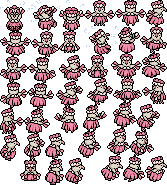
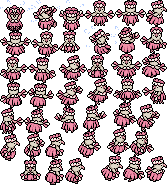
fix: redo four shinies part by part
Naclstack's salt flakes, Oricorio Pa'u's wing tips, Sensu's beak and
Milcery's eye rims shared a colour with another part, so a colour swap
could not give them their own. Made again with shiny-sprites, keeping
every other colour. Tranquill's note is reworded: its shared lavender
is the art's.

diff --git a/compact/EDITS.md b/compact/EDITS.md
@@ -162,14 +162,14 @@ rather than what the artist submitted.
 | `kalos/0721/0001` Shadow, shiny | `kalos/0721/0000` shiny | The same, from shiny Volcanion: `edits/0721-0001-shadow-shiny.json`. |
 | `kalos/0719/0002` Shadow | `kalos/0719/0000` regular | Not in the collection; a form of ours. Made with the `shadow-sprites` skill: `edits/0719-0002-shadow-regular.json`. The regular draws the dress front and the sparkle in one white, so parts come from the shiny coat. The crystals sit on their mid pink, which keeps them visible. |
 | `kalos/0719/0002` Shadow, shiny | `kalos/0719/0000` shiny | The same, from shiny Diancie: `edits/0719-0002-shadow-shiny.json`. |
-| `alola/0741/0002` shiny | `alola/0741/0002` regular | No shiny was drawn. Recoloured from the regular with colours taken from official shiny Pa'u art: `edits/0741-0002-regular-shiny.json`. The face and the wing-feather tips share one colour, so the tips come out cream-white rather than pale pink. |
+| `alola/0741/0002` shiny | `alola/0741/0002` regular | No shiny was drawn. Recoloured from the regular with colours taken from official shiny Pa'u art, with the shiny-sprites tool: the face and the wing-feather tips share one pink, so patches of it no bigger than 12 px are taken as tips and turn pale pink, the face cream. Plan: `edits/0741-0002-regular-shiny.json`. |
 | `unova/0520/0000` Tranquill | `sprite-0520.zip`, regular | Not in the collection yet; built from the artist's SpriteCollab-format folder (`sprite-0520.zip`), with a `credits.txt` added: Pokejavi., CC BY-NC 4.0. A rebuild from `sprite/` will not make it until upstream has it. |
 | `unova/0558/0000` Crustle | `sprite-0558.zip`, regular | Not in the collection yet; built from the artist's SpriteCollab-format folder (`sprite-0558.zip`), with a `credits.txt` added: JFain, CC BY-NC 4.0. A rebuild from `sprite/` will not make it until upstream has it. |
 | `unova/0616/0000` Shelmet | `sprite-0616.zip`, regular | Not in the collection yet; built from the artist's SpriteCollab-format folder (`sprite-0616.zip`), with a `credits.txt` added: Pokejavi., CC BY-NC 4.0. A rebuild from `sprite/` will not make it until upstream has it. |
 | `unova/0626/0000` Bouffalant | `3DS - Pokedex 3D Pro - … #0626 Bouffalant.zip`, a rigged COLLADA model (replaces the earlier hand-drawn sheet from `sprite-0626.zip`) | Not in the collection yet. Rendered, not drawn, as Amoonguss. Model edits: head 1.2×, legs thickened; the afro's grey-brown and the coat's orange-brown kept as separate colour families. Rendered at 12 px a unit, 25° camera, overhead light; same pixel stage. The afro is not left-right symmetric, so all eight directions are rendered. Idle (keys 250–321), Attack (the head-butt, 116–137) and Charge (112–128) are the model's own motion; Walk is a posed trot; Hop follows the hand-drawn template; Double is the idle pose flickering sideways; Sleep is drawn from DownLeft. The eyes stay hidden under the afro, as on the model. No author; no credits. |
 | `alola/0741/0003` Oricorio Sensu | `sprite-0741-0003.zip`, regular | Not in the collection yet; built from the artist's SpriteCollab-format folder (`sprite-0741-0003.zip`), with a `credits.txt` added: baronessfaron, CC BY-NC 4.0. A rebuild from `sprite/` will not make it until upstream has it. |
-| `unova/0520/0000` shiny | `unova/0520/0000` regular | No shiny was drawn. Recoloured from the regular with colours taken from official shiny Tranquill art: `edits/0520-0000-regular-shiny.json`. The eye patch and legs share one colour, so both come out one lavender. |
-| `alola/0741/0003` shiny | `alola/0741/0003` regular | No shiny was drawn. Recoloured from the regular with colours taken from official shiny Sensu art: `edits/0741-0003-regular-shiny.json`. The beak shares the fan scallops' pink, so it comes out lilac rather than salmon. |
+| `unova/0520/0000` shiny | `unova/0520/0000` regular | No shiny was drawn. Recoloured from the regular with colours taken from official shiny Tranquill art: `edits/0520-0000-regular-shiny.json`. The eye patch and legs share one colour; both are lavender in the art too. |
+| `alola/0741/0003` shiny | `alola/0741/0003` regular | No shiny was drawn. Recoloured from the regular with colours taken from official shiny Sensu art, with the shiny-sprites tool: the beak shares the fan scallops' pink, so patches of it no bigger than 10 px that touch no cyan are taken as the beak and turn salmon, the scallops lilac. Plan: `edits/0741-0003-regular-shiny.json`. |
 | `unova/0558/0000` shiny | `unova/0558/0000` regular | No shiny was drawn. Recoloured from the regular with colours taken from official shiny Crustle art: `edits/0558-0000-regular-shiny.json`. |
 | `unova/0626/0000` shiny | `unova/0626/0000` regular | Recoloured by colour role after the official shiny: coat to red-brown (base `#b24d34`), afro to a lighter grey-brown, horns to peach, horn bands to yellow-green; each ramp keeps its relation to its base. 18-bit: `edits/0626-0000-regular-shiny.json`. |
 | `unova/0616/0000` shiny | `unova/0616/0000` regular | No shiny was drawn. Recoloured from the regular with colours taken from official shiny Shelmet art: `edits/0616-0000-regular-shiny.json`. |
@@ -196,10 +196,10 @@ rather than what the artist submitted.
 | `unova/0618/0000` Stunfisk | `3DS - Pokedex 3D Pro - … #0618 Stunfisk.zip`, a rigged COLLADA model | Upstream has only a drawn Idle and Rotate; this is a separate render, `sprite/0618` untouched. No chibi edits: there is no head bone, the whole body is the face. Rendered at 30 px a unit, 45° camera (a flat body), overhead light with the highlight kept to near-level surfaces; same pixel stage. Symmetric: five directions rendered, three mirrored. Idle (keys 280–401), Attack (the curl and slam, 0–50) and Charge (12–28) are the model's own motion; Walk, Hurt and Sleep are posed; Hop follows the hand-drawn template; Double is the idle pose flickering sideways. No author; no credits. |
 | `unova/0618/0000` shiny | `unova/0618/0000` regular | Recoloured by colour role after the official shiny art: coat to khaki (`#dbba6d`), dark rim and markings to olive-brown, yellow lips, tail and spot to sky blue; each ramp keeps its relation to its base. Black and eye white kept. 18-bit: `edits/0618-0000-regular-shiny.json`. |
 | `galar/0820/0000` shiny | `galar/0820/0000` regular | No shiny was drawn. Recoloured by colour role after the official shiny art: body to its pale tan (base `#e3baa2`), tail and face fur to its mauve-maroon (base `#9a596d`); orange, red, black and white kept. 18-bit: `edits/0820-0000-regular-shiny.json`. |
-| `galar/0868/0000` shiny | `galar/0868/0000` regular | No shiny was drawn. Recoloured by colour role after the official shiny art: cream body to near-white (base `#f7f3eb`), pink mouth to tan, white pupils to grey (`#656961`, darker than the art's so a 1–2 px eye reads). The art's tan eye rims are not possible: the rims are the body's shade colours. 18-bit: `edits/0868-0000-regular-shiny.json`. |
+| `galar/0868/0000` shiny | `galar/0868/0000` regular | No shiny was drawn. Recoloured by colour role after the official shiny art, with the shiny-sprites tool: cream body to near-white (base `#f7f3eb`), pink mouth to tan, white pupils to grey (`#656961`, darker than the art's so a 1–2 px eye reads). The eye rims are the body's shades; those touching a pupil are taken as rims and turn tan. Plan: `edits/0868-0000-regular-shiny.json`. |
 | `galar/0896/0000` shiny | `galar/0896/0000` regular | No shiny was drawn. Recoloured after the game's shiny sprite, matched pixel for pixel against its regular: white body kept, grey-blue shading to lavender, blue ice to purple (base `#9a6dc7`). 18-bit: `edits/0896-0000-regular-shiny.json`. |
 | `galar/0847/0000` shiny | `galar/0847/0000` regular | No shiny was drawn. Recoloured by colour role after the official shiny art: brown body to purple (base `#7d79a6`), tan belly to grey-tan (`#cfc3ba`), fins to its red-orange (`#e36d45`); bones and mouth kept. 18-bit: `edits/0847-0000-regular-shiny.json`. |
-| `paldea/0933/0000` shiny | `paldea/0933/0000` regular | No shiny was drawn. Recoloured by colour role after the official shiny art: white face to tan-orange (base `#ffdcb4`), body to grey-mauve, leg shade to orange, eyes to gold `#c76908` and yellow `#f7eb30` (darker than the art's so they read on the tan face). The salt patch on its back shares the face's white, so it turns tan too. 18-bit: `edits/0933-0000-regular-shiny.json`. |
+| `paldea/0933/0000` shiny | `paldea/0933/0000` regular | No shiny was drawn. Recoloured by colour role after the official shiny art, with the shiny-sprites tool: white head block to tan-orange (base `#ffdbb2`), body to grey-mauve, leg shade to orange, eyes to gold `#c76908` and yellow `#f7eb30` (darker than the art's so they read on the tan face). Salt flakes share the head's white; bits touching nothing but outline are taken as flakes and stay white. Plan: `edits/0933-0000-regular-shiny.json`. |
 | `paldea/1007/0000` shiny | `paldea/1007/0000` regular | No shiny was drawn. Recoloured by colour role after the official shiny art: red body to charcoal (base `#4e4e56`), feather bands pink and purple to yellow and magenta, blue head and mane to magenta (`#a81a53`); white, chest and eye kept. 18-bit: `edits/1007-0000-regular-shiny.json`. |
 | `paldea/0916/0000` shiny | `paldea/0916/0000` regular | No shiny was drawn. Made with the shiny-sprites tool after a render of the shiny model: the head, drawn in the body's two darkest shades, is told apart by growing from the snout, so it turns near-white (`#f8e6f0`) while the same shades on the body stay its shadows; body to pink (`#ecbdd3`), snout, hooves and tail to magenta (`#eb62a4`), 60% of the shading depth kept. Plan: `edits/0916-0000-regular-shiny.json`. |
 
